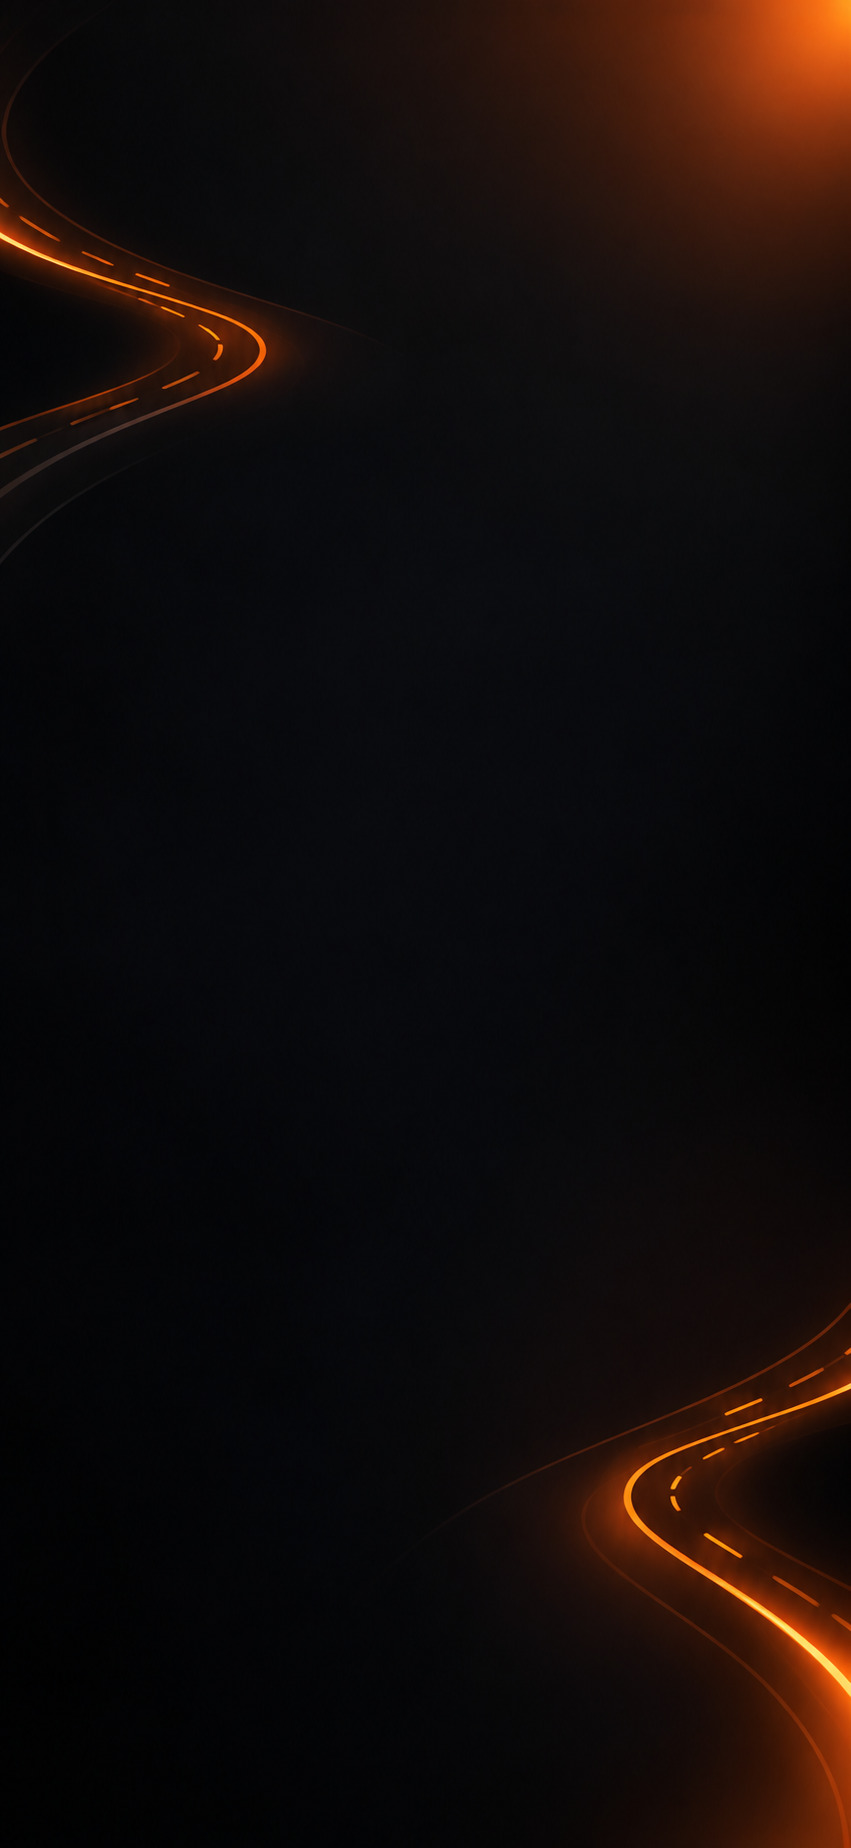
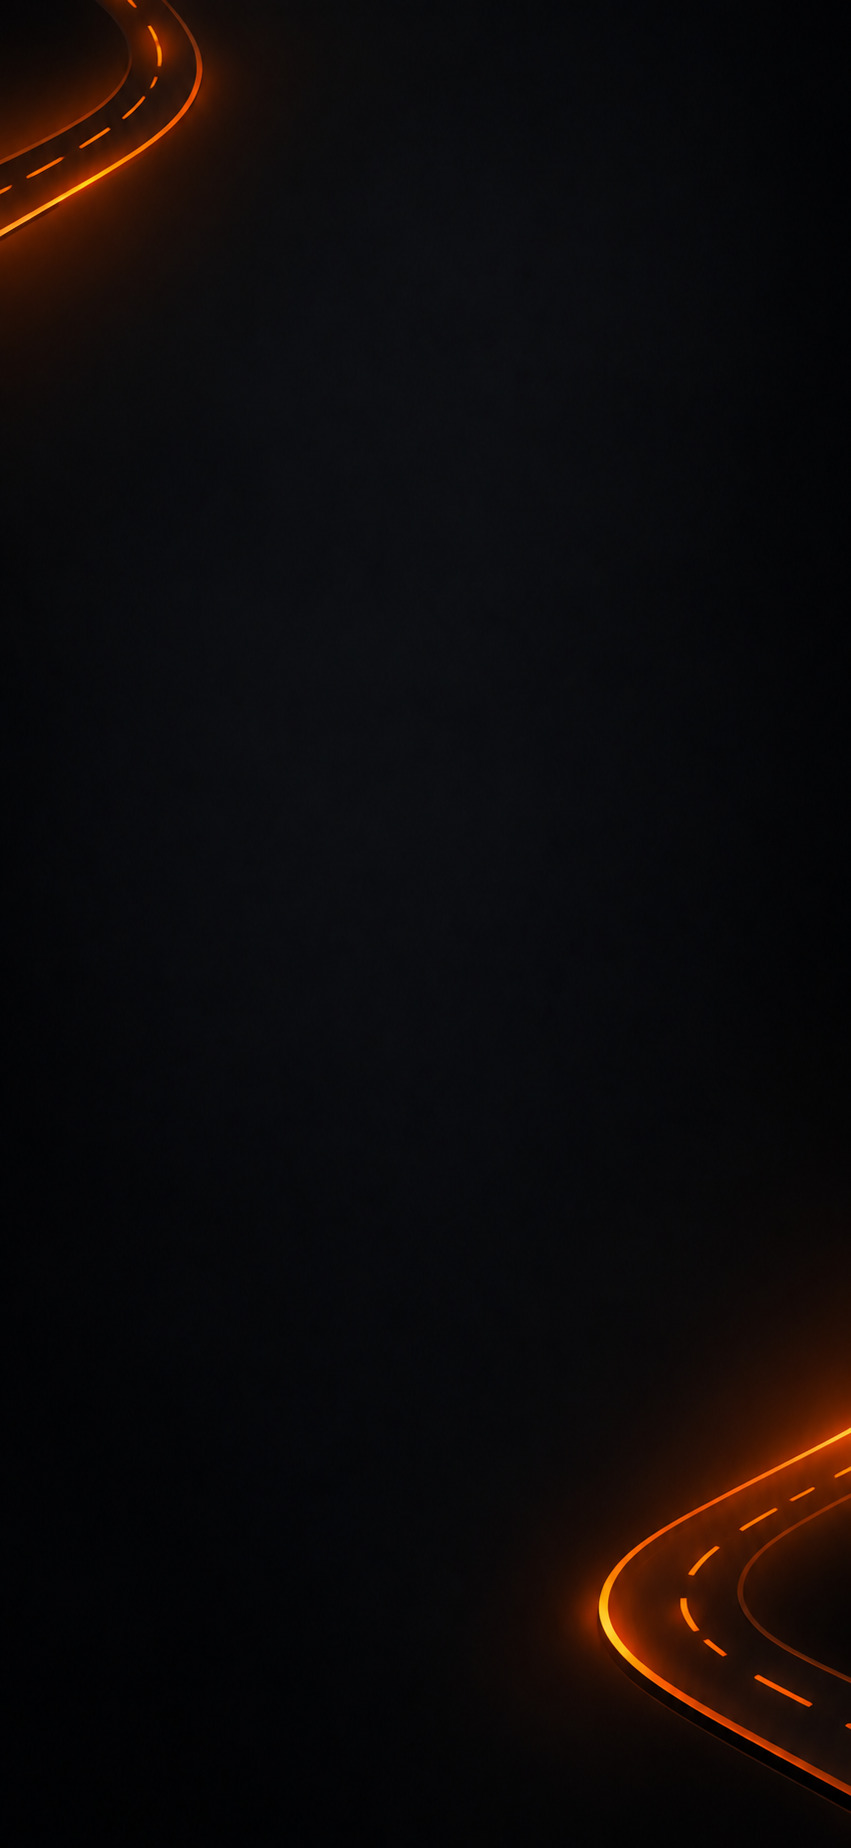
Theorie-App: heißt jetzt „Fahrschule Pro“, neuer Straßen-Hintergrund beim Login
- App-Name, Logo-Wortmarke (Pro in Orange), Berechtigungstexte, Teilen-Texte,
  Erinnerung und Hinweise auf Fahrschule Pro umgestellt; Spur Plus heißt Premium
- Interne Kennungen bleiben (Bundle-ID, Link-Schema spur://, Speicherschlüssel),
  damit Builds, Login-Weiterleitungen und gespeicherter Fortschritt weiter klappen
- Neues Hintergrundbild für Anmelden und Registrieren; Formular sitzt oben,
  damit die Straße unten rechts frei bleibt

Claude-Session: https://claude.ai/code/session_01SLhREvuLjiee512FKLama7

diff --git a/theorie-app/src/app/premium.tsx b/theorie-app/src/app/premium.tsx
@@ -31,7 +31,7 @@ export default function Premium() {
       <ScrollView contentContainerStyle={{ paddingHorizontal: RAND, paddingBottom: abstand(8), gap: abstand(7) }}>
         <View style={{ gap: abstand(2) }}>
           <T v="mini" farbe={farben.orange}>
-            Spur Plus
+            Premium
           </T>
           <T v="display">Mehr Tempo bis zur Prüfung.</T>
           <T v="text">Alles aus der kostenlosen Version – plus alles, was dich sicher durch die Prüfung bringt.</T>
@@ -90,14 +90,14 @@ export default function Premium() {
         </View>
 
         <T v="klein" zentriert>
-          Spur Plus startet bald. Der Kauf läuft dann über deinen App-Store-Account und ist jederzeit kündbar.
+          Premium startet bald. Der Kauf läuft dann über deinen App-Store-Account und ist jederzeit kündbar.
         </T>
       </ScrollView>
       <View style={{ paddingHorizontal: RAND, paddingTop: abstand(3), paddingBottom: insets.bottom + abstand(3), borderTopWidth: 1, borderColor: farben.linie }}>
         <Knopf
           titel="Beim Start Bescheid geben"
           icon="notifications-outline"
-          onPress={() => Alert.alert("Vorgemerkt", "Sobald Spur Plus startet, siehst du es hier in der App.")}
+          onPress={() => Alert.alert("Vorgemerkt", "Sobald Premium startet, siehst du es hier in der App.")}
         />
       </View>
     </View>

diff --git a/theorie-app/src/components/auth-rahmen.tsx b/theorie-app/src/components/auth-rahmen.tsx
@@ -77,9 +77,7 @@ export function AuthRahmen({ titel, unter, onZurueck, children }: { titel: strin
             <View style={{ width: 40 }} />
           </View>
 
-          {/* Ist Platz übrig, rutscht das Formular etwas nach unten. */}
-          <View style={{ flexGrow: 3, minHeight: abstand(7) }} />
-          <View style={{ gap: abstand(4) }}>
+          <View style={{ gap: abstand(4), marginTop: abstand(7) }}>
             <View style={{ gap: abstand(2), marginBottom: abstand(1) }}>
               <View style={{ width: 30, height: 4, borderRadius: 2, backgroundColor: farben.orange }} />
               <T v="display">{titel}</T>
@@ -87,7 +85,6 @@ export function AuthRahmen({ titel, unter, onZurueck, children }: { titel: strin
             </View>
             {children}
           </View>
-          <View style={{ flexGrow: 1 }} />
         </ScrollView>
       </KeyboardAvoidingView>
     </View>

diff --git a/theorie-app/src/app/(tabs)/profil.tsx b/theorie-app/src/app/(tabs)/profil.tsx
@@ -229,7 +229,7 @@ export default function Profil() {
 
         <Gruppe>
           <Eintrag icon="settings-outline" farbe="#C4C8CE" titel="Einstellungen & Konto" onPress={() => router.push("/einstellungen")} />
-          <Eintrag icon="diamond-outline" farbe={farben.orange} titel="Spur Plus" unter="Bald verfügbar" onPress={() => router.push("/premium")} />
+          <Eintrag icon="diamond-outline" farbe={farben.orange} titel="Premium" unter="Bald verfügbar" onPress={() => router.push("/premium")} />
           <Eintrag icon="images-outline" farbe="#C4C8CE" titel="Bildnachweise" onPress={() => router.push("/bildnachweise")} />
           <Eintrag icon="log-out-outline" farbe={farben.rot} titel={gast ? "Gastmodus beenden" : "Abmelden"} gefahr onPress={abmeldenFragen} />
         </Gruppe>

diff --git a/theorie-app/src/app/bildnachweise.tsx b/theorie-app/src/app/bildnachweise.tsx
@@ -13,7 +13,7 @@ export default function Bildnachweise() {
       <Kopf titel="Bildnachweise" />
       <ScrollView contentContainerStyle={{ paddingHorizontal: RAND, paddingBottom: insets.bottom + abstand(8), gap: abstand(3) }}>
         <T v="text" style={{ marginBottom: abstand(2) }}>
-          Die Fotos in Spur stehen unter freien Lizenzen. Wir haben sie für die App verkleinert und zugeschnitten. Verkehrszeichen, Lagepläne und Symbole sind eigene
+          Die Fotos in Fahrschule Pro stehen unter freien Lizenzen. Wir haben sie für die App verkleinert und zugeschnitten. Verkehrszeichen, Lagepläne und Symbole sind eigene
           Zeichnungen.
         </T>
         {NACHWEISE.map((n) => (

diff --git a/theorie-app/src/app/kurz-erklaert.tsx b/theorie-app/src/app/kurz-erklaert.tsx
@@ -142,7 +142,7 @@ function ClipKarte({ clip, index, anzahl, hoehe, aktiv }: { clip: Clip; index: n
             <Aktion icon={gemerkt ? "bookmark" : "bookmark-outline"} aktiv={gemerkt} farbe={farben.blau} onPress={() => clipUmschalten(clip.id, "gemerkt")} label="Merken" />
             <Aktion
               icon="share-outline"
-              onPress={() => Share.share({ message: `${clip.titel}\n\n• ${clip.punkte.join("\n• ")}\n\nAus der Theorie-App Spur` }).catch(() => {})}
+              onPress={() => Share.share({ message: `${clip.titel}\n\n• ${clip.punkte.join("\n• ")}\n\nAus der App Fahrschule Pro` }).catch(() => {})}
               label="Teilen"
             />
           </View>

diff --git a/theorie-app/src/app/clip-ersteller.tsx b/theorie-app/src/app/clip-ersteller.tsx
@@ -87,7 +87,7 @@ export default function ClipErsteller() {
       <Kopf titel="Clip-Ersteller" />
       <ScrollView contentContainerStyle={{ paddingHorizontal: RAND, paddingBottom: insets.bottom + abstand(10), gap: abstand(6) }} keyboardShouldPersistTaps="handled">
         <T v="text">
-          Wer hier steht, kann in Spur Clips hochladen. Du als Inhaber kannst es immer. Die Person braucht ein Konto – gib ihren Benutzernamen oder ihre E-Mail ein.
+          Wer hier steht, kann in Fahrschule Pro Clips hochladen. Du als Inhaber kannst es immer. Die Person braucht ein Konto – gib ihren Benutzernamen oder ihre E-Mail ein.
         </T>
 
         <View style={{ gap: abstand(3) }}>

diff --git a/theorie-app/src/lib/clip-aktionen.ts b/theorie-app/src/lib/clip-aktionen.ts
@@ -96,7 +96,7 @@ export function useClipAktionen(liste: Liste) {
 
   const onTeilen = useCallback(async (clip: ClipEintrag) => {
     try {
-      const r = await Share.share({ message: `„${clip.titel}“ – ${clip.autor_name || clip.autor_benutzername} in der Spur-App`, url: dateiUrl(clip.video_pfad) });
+      const r = await Share.share({ message: `„${clip.titel}“ – ${clip.autor_name || clip.autor_benutzername} in Fahrschule Pro`, url: dateiUrl(clip.video_pfad) });
       if (r.action === Share.sharedAction && ich.current) {
         const n = await geteiltMelden(clip.id);
         if (n != null) l.current.aendern(clip.id, () => ({ geteilt: n }));

diff --git a/theorie-app/src/app/schild-scanner.tsx b/theorie-app/src/app/schild-scanner.tsx
@@ -256,7 +256,7 @@ export default function SchildScanner() {
         <Hinweis
           icon="camera-outline"
           titel="Kamera für die Schilder-Jagd"
-          text="Damit du echte Verkehrsschilder scannen kannst, braucht Spur die Kamera. Die Fotos werden nur auf deinem Handy ausgewertet und nicht gespeichert."
+          text="Damit du echte Verkehrsschilder scannen kannst, braucht Fahrschule Pro die Kamera. Die Fotos werden nur auf deinem Handy ausgewertet und nicht gespeichert."
         >
           {erlaubnis.canAskAgain ? (
             <Knopf titel="Kamera erlauben" icon="camera" onPress={() => erlaubnisAnfragen()} />

diff --git a/theorie-app/src/app/einstellungen.tsx b/theorie-app/src/app/einstellungen.tsx
@@ -87,7 +87,7 @@ export default function Einstellungen() {
   async function erinnerungAendern(an: boolean, stunde = stand.erinnerung.stunde, minute = stand.erinnerung.minute) {
     const ok = await erinnerungPlanen(an, stunde, minute);
     if (!ok) {
-      Alert.alert("Mitteilungen sind aus", "Erlaube Mitteilungen für Spur in den iPhone-Einstellungen, dann klappt die Erinnerung.");
+      Alert.alert("Mitteilungen sind aus", "Erlaube Mitteilungen für Fahrschule Pro in den iPhone-Einstellungen, dann klappt die Erinnerung.");
       setzen({ erinnerung: { an: false, stunde, minute } });
       return;
     }

diff --git a/theorie-app/src/components/grafik.tsx b/theorie-app/src/components/grafik.tsx
@@ -22,7 +22,9 @@ export function Logo({ groesse = 28, mitText = true }: { groesse?: number; mitTe
         <Polygon points="49.1,41 50.9,41 50.7,33 49.3,33" fill={farben.orange} />
       </Svg>
       {mitText ? (
-        <Text style={{ fontFamily: svgSchrift.schild, fontSize: groesse * 0.82, color: farben.text, letterSpacing: -0.6 }}>spur</Text>
+        <Text style={{ fontFamily: svgSchrift.schild, fontSize: groesse * 0.82, color: farben.text, letterSpacing: -0.6 }}>
+          Fahrschule<Text style={{ color: farben.orange }}> Pro</Text>
+        </Text>
       ) : null}
     </View>
   );

diff --git a/theorie-app/src/app/online-duell.tsx b/theorie-app/src/app/online-duell.tsx
@@ -231,7 +231,7 @@ export default function OnlineDuellSeite() {
                 {offenerCode}
               </T>
               <Pressable
-                onPress={() => Share.share({ message: `Duell in der Spur-App: Gib den Code ${offenerCode} unter Liga → Duell ein.` }).catch(() => {})}
+                onPress={() => Share.share({ message: `Duell in Fahrschule Pro: Gib den Code ${offenerCode} unter Liga → Duell ein.` }).catch(() => {})}
                 style={{ flexDirection: "row", alignItems: "center", gap: 6 }}
                 hitSlop={8}
               >

diff --git a/theorie-app/src/lib/erinnerung.ts b/theorie-app/src/lib/erinnerung.ts
@@ -15,7 +15,7 @@ export async function erinnerungPlanen(an: boolean, stunde: number, minute: numb
   await Notifications.scheduleNotificationAsync({
     identifier: KENNUNG,
     content: {
-      title: "Zeit für deine Spur",
+      title: "Zeit für deine Theorie",
       body: "Zehn Fragen, fünf Minuten – deine Serie wartet.",
     },
     trigger: { type: Notifications.SchedulableTriggerInputTypes.DAILY, hour: stunde, minute },
